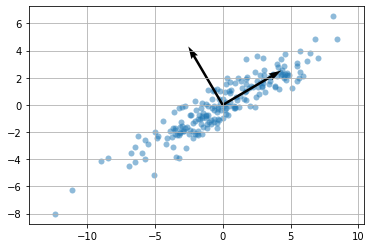
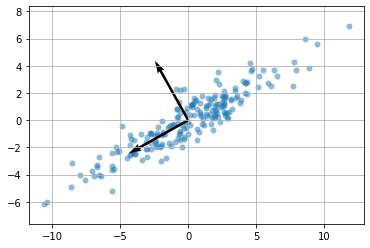
deploy: b959c3b55b3fdac264d93c81d40d8293f892a26b

diff --git a/searchindex.js b/searchindex.js
@@ -1,1 +1,1 @@
-Search.setIndex({docnames:["index","notebooks/01_linear_systems","notebooks/02_LU_decomposition","notebooks/03_polynomial_interpolation","notebooks/04_spline_interpolation","notebooks/05_finite_difference_method","notebooks/06_least_squares_regression","notebooks/07_pca","notebooks/08_deblurring_images","notebooks/09_computed_tomography","notebooks/10_computing_eigenvalues","notebooks/11_pagerank","notebooks/12_fft","notebooks/13_convolution","notebooks/Untitled"],envversion:{"sphinx.domains.c":2,"sphinx.domains.changeset":1,"sphinx.domains.citation":1,"sphinx.domains.cpp":3,"sphinx.domains.index":1,"sphinx.domains.javascript":2,"sphinx.domains.math":2,"sphinx.domains.python":2,"sphinx.domains.rst":2,"sphinx.domains.std":1,"sphinx.ext.intersphinx":1,sphinx:56},filenames:["index.md","notebooks/01_linear_systems.ipynb","notebooks/02_LU_decomposition.ipynb","notebooks/03_polynomial_interpolation.ipynb","notebooks/04_spline_interpolation.ipynb","notebooks/05_finite_difference_method.ipynb","notebooks/06_least_squares_regression.ipynb","notebooks/07_pca.ipynb","notebooks/08_deblurring_images.ipynb","notebooks/09_computed_tomography.ipynb","notebooks/10_computing_eigenvalues.ipynb","notebooks/11_pagerank.ipynb","notebooks/12_fft.ipynb","notebooks/13_convolution.ipynb","notebooks/Untitled.ipynb"],objects:{},objnames:{},objtypes:{},terms:{"00000000e":10,"005":[3,4],"009639976931589758":11,"00963998":11,"01510577":11,"015105773595215082":11,"021093870488510347":11,"02109389":11,"027161480867040816":11,"02716157":11,"02832897517319454":11,"028329":11,"03407311":11,"034073123693461105":11,"0375":11,"037500000000000006":11,"04175958":11,"04176006213062845":11,"04276068030895045":11,"04276092":11,"046622761926266715":11,"046623":11,"04902816697432799":11,"04902836":11,"04937601327987762":11,"04937611":11,"049584758315932884":11,"04958485":11,"050094454086719045":11,"05009455":11,"05625797":11,"05625841300580484":11,"0594269178008677":11,"05942715":11,"06394814009332865":11,"06394822":11,"06891397874486167":11,"06891408":11,"07106781e":10,"0854899":11,"08549028261804711":11,"09319300741494159":11,"09319324":11,"100":[3,5,10,11,12],"1000":6,"1056":7,"10813874":11,"10813916255043361":11,"10mm":[1,2,5],"1100":12,"115575244":3,"11764706e":10,"120":9,"13793103e":10,"14213562e":10,"14653772":6,"150":10,"16666667":1,"1797":7,"200":[3,4,7,8,9],"220446049250313e":1,"23313981e":10,"24650102e":10,"24712881730381647":11,"24720132":11,"24782":8,"256":8,"2q_k":5,"31018415324246":10,"3108259755514":10,"32083333":11,"331042562946":8,"33333333":[1,2,11],"33333333e":10,"36886114e":10,"373":10,"38496544":6,"38617379e":10,"39797215e":10,"40000000e":10,"41176471e":10,"41379310e":10,"41421356":10,"41421356e":10,"432x288":8,"43829925e":10,"44100":12,"45293347e":10,"4625":11,"46809736":11,"46824236539236713":11,"49999998":10,"500":[6,12],"50000002":10,"50691522":7,"52409613e":10,"530258040767459":4,"57233936":6,"64217655":3,"6530513":6,"66666667":[1,10],"6724":9,"68965517":10,"70710675":10,"70710678":10,"70710681":10,"72413793":10,"750":12,"76358907e":10,"77302319e":10,"7762752":9,"78720":9,"86199592":7,"88235294e":10,"8875":11,"90926744e":10,"9647097":6,"97144477":6,"9840":9,"98439951":6,"default":12,"function":[1,2,4,6,7,8,10,11],"import":[1,2,3,4,5,6,7,8,9,10,11,12],"return":2,"true":[2,3,4,5,7,11,12],"try":3,And:9,Axes:8,But:3,For:5,That:[2,3,7],The:[1,2,3,4,5,6,7,9,10],Then:10,There:[6,7],These:9,Use:[6,8],With:2,a_0:10,a_2:5,a_c:8,a_k:[5,9,10],a_k_plu:9,a_n:5,a_r:8,about:1,abs:[10,12],absolut:[2,10],ac_k_plu:8,actual:9,added:4,adjac:11,adjacency_matrix:11,after:9,again:6,algebra:1,algorithm:[7,10],align:[2,3],all:[4,10],almost:6,alpha:[5,6,7,11],also:10,alwai:2,amp:1,analyz:0,angl:[7,9,12],ani:2,append:3,approx:5,approxim:[0,1,5,10],ar_k_plu:8,arang:[8,12],arbitrari:6,around:3,arrai:[1,2,3,4,5,6,7,10,11],assum:0,astyp:8,averag:7,avoid:[8,9],axi:[5,7,11],b_1:5,b_2:5,b_e:9,b_k:5,b_n:5,base:6,basi:7,bc_type:4,becaus:3,been:7,befor:6,begin:[1,2,3,5,6],best:6,beta:5,binari:[7,8],block:[8,10],bmatrix:[1,2,3,5,6],boldsymbol:[1,3],bone:9,both:8,boundari:5,browser:12,build:6,c_0:[3,6],c_1:[3,5,6],c_1t:6,c_1t_1:3,c_1t_2:3,c_1t_d:3,c_1x:6,c_2:[3,5,6],c_2t:6,c_2x:6,c_d:[3,6],c_dt:6,c_k:[3,5],calcul:6,call:[2,3,6],can:[0,6,9,10],captur:7,cccccccc:[1,2],cd_d:6,cdot:[1,2,3,5,6],chang:[3,4],check:[2,8],choic:6,choleski:2,choos:[5,10],circuilt:1,clim:7,cmap:[2,7,8,9,11],coefficeint:6,coeffici:[3,4,6],collect:9,colorbar:[2,7,8],column:[2,6,7,8],column_stack:[6,7],combin:8,common:6,compar:[2,4,5,9,10,11],comput:[0,1,2,4,6,7,8],comut:2,concaten:5,cond:[3,4,8],condit:[3,5,8],consid:[3,4,5],consist:1,constant:1,construct:[0,4,6],contain:9,continu:4,converg:10,copi:12,correct:6,correspond:[3,9,10],cos:[5,7,12],creat:[0,1,3,8,11],cs1:4,cs2:4,cs3:4,csc:9,csc_matrix:9,cubic:3,cubicsplin:4,current:1,data:[3,4,8,9],dataset:9,dc_k_plu:8,ddot:[1,2,3,5],decomposit:[0,7,10],decreas:8,defin:[4,5,10],definit:[2,11],degre:[3,6],demonstr:6,denot:5,deploi:0,detail:0,dft:12,diag:[1,2,5,8,9],diagon:[8,10],differ:[6,9],differenti:5,digit:0,digraph:11,direct:[8,11],discret:[0,5],displai:12,distribut:6,document:2,doe:12,domain:5,domin:10,dot:[1,3,4,6,7],dr_k_plu:8,draw:11,due:1,each:[3,4,5,7,9,10],econom:6,edg:11,effici:7,eig:10,eigenvalu:0,eigenvector:10,eignvalu:10,element:12,elimin:2,ell_:2,end:[1,2,3,5,6],entri:2,epsilon:6,equal:[2,3,7],equat:[0,3,5],error:[1,6,9],eval:10,evec:10,everi:7,exact:[1,5],exactli:6,exampl:9,exist:3,express:6,eye:[1,2],factor:6,fals:[2,7],figsiz:[3,7,9,12],figur:[3,7,8,9,12],file:9,find:[2,8,11],finnish:9,fip:9,first:[2,6,7],flatten:7,float64:8,follow:9,form:[2,5,6],format:10,formula:5,found:0,fourier:0,frac:[5,7,10],from:[3,4,6,7,8,9,12],gaussian:[2,7],gener:[5,6],get_cmap:7,give:3,given:[3,4],goal:6,good:10,googl:11,google_matrix:11,grai:8,grid:[3,4,5,7,12],hand:2,handwritten:7,happen:3,has:[2,6,7,10],hat:[1,9],have:[6,9,10],horizont:8,how:8,howev:[7,9],hspace:[1,2,5],hstack:8,http:0,huge:9,i_1:1,i_n:1,idea:6,ifft:12,imag:7,implement:[7,10],imread:8,imshow:[2,7,8,9],includ:7,increas:[3,10],inde:10,index:[1,9],inform:[0,7],infti:10,interpol:7,interv:6,introduc:[3,5],invers:9,invert:[9,10],ipython:12,iter:[0,11],jet:7,jpg:8,jupyt:0,just:6,kitten:8,know:[3,10],knowledg:0,l_1:2,l_2:2,lambda:10,lambda_1:10,lambda_n:10,larg:[0,3,9],largest:9,learn:[1,7],least:[0,6],left:[1,2,5,6,8],len:3,length:7,leq:2,less:2,let:[2,3,4,5,6,7,8,9,10],linalg:[2,3,4,5,6,7,8,9,10,11,12],line:6,linear:[4,5],linearli:8,linewidth:6,linspac:[3,4,5,6],llet:5,load_digit:7,loadmat:[8,9],locat:7,look:[6,9],loop:1,lower:2,lu_factor:10,lu_solv:10,machin:7,magnitud:12,markers:[3,4],mat:9,mathbb:7,mathbf:[2,5,6,7,9,10],mathemat:[0,1],matplotlib:[1,2,3,4,5,6,7,8,9,10,11,12],matric:[0,6,9],matrix:[0,1,2,3,4,6,7,8,10,11],max:10,mean:[6,7,10],memori:9,method:[0,6,10,11],minim:6,mode:6,model:[0,1],most:[6,7],multipl:[8,10],n_link:11,n_page:11,nak:10,nbyte:9,ndarrai:[1,9],need:[8,9],networkx:11,nice:3,niter:10,nmax:3,node_color:11,nois:[3,4,6,9],none:5,norm:[1,10],normal:[7,10],normliz:7,notat:[5,6],note:11,notebook:[0,13],now:[2,4,6,10],number:[3,6,8,10],numpi:[1,2,3,4,5,6,7,8,9,10,11,12],nxk:10,ones:[1,2,5,6,8,11],onto:7,order:[5,9],ordinari:5,origin:7,orthogon:7,orthonorm:7,other:10,our:[1,4,11],p_1:[4,5],p_2:4,p_k:[4,5],p_n:[4,5],packag:[1,7],parabola:3,parallel:1,partial:2,particular:9,paus:10,pca:7,perform:[0,11],permut:2,phantom:2,phase:12,phenomenon:0,phi:12,piecewis:4,pivot:2,pixel:7,plot:[1,2,3,4,5,6,7],plt:[1,2,3,4,5,6,7,8,9,10,11,12],plu:2,point:[3,4,6,7],polyniomi:3,polynomi:4,pos:11,posit:[1,2],power:11,prepar:9,pretti:10,print:[1,2,3,6,10],prior:0,problem:9,process:0,produc:10,proj:9,project:7,properti:0,provid:9,pseudoinvers:[8,9],pwall:0,pyplot:[1,2,3,4,5,6,7,8,9,10,11,12],python:7,q_1:6,q_1r_1:6,q_k:10,qtc:8,qtr:8,quantifi:6,quiver:7,quotient:10,r_1:[5,6],r_2:5,r_k:[5,10],r_n:5,rai:9,rand:6,randint:[4,9,11],randn:[3,4,6,7,8,10],random:[3,4,6,7,8,9,12],rang:[3,7,9,10,11],rank:9,rate:12,rayleigh:10,rcparam:12,real:[0,10,12],rearrang:5,record:8,repeat:[5,10],repres:[1,6,8,9],reshap:[4,7,9],residu:1,result:[2,4,6,7,9,10],retriev:6,right:[1,2,5,6,7,8],round:1,row:[2,6,7,8,9],rrcrr:5,rrr:2,same:[6,8,10],sampl:[6,9],save:9,scale:7,scale_unit:7,scatter:[6,7],scipi:[0,2,3,4,5,6,7,8,9,10,11,12],second:5,see:[6,10],seek:7,select:7,sensit:[3,4],set:[6,12],set_cmap:8,shape:[6,7,8,9],show:[1,2,3,4,5,6,7,8,9,12],sigma:7,signal:0,similar:10,sin:[3,4,7],sinc:10,singular:[7,9],size:[1,3,4,5,8,10,12],sklearn:7,sla:9,sleep:10,small:[3,4],smallest:10,smooth:4,societi:9,softwar:0,solut:[0,1,2,3,5,6],solv:[2,3,4,5,6,8,9],solve_triangular:2,some:[1,3,6,8],space:3,spars:9,spring_layout:11,spy:9,sqrt:10,squar:[0,1,6,8,9],sse:6,standard:6,start:[3,10],stem:12,step:10,stochast:11,subinterv:4,subplot:[9,12],substitut:5,subtract:7,sum:[3,6,11,12],sum_:7,sum_i:6,summar:0,support:12,suppos:[6,10],svd:[0,7],symmetr:[2,10],system:[0,2,3,4,5,6],t_0:[3,4,5,6],t_1:[3,6],t_2:3,t_d:3,t_f:5,t_i:6,t_k:[3,4,5],t_n:[3,4,6],target:7,than:2,thei:10,therefor:[2,8,10],theta:7,thi:[2,3,6,10],thin:6,through:9,tick:7,tild:10,time:[6,7,8,10],titl:[3,12],toarrai:11,tomograph:9,tomographi:0,transform:0,transpos:11,triangular:[2,6,10],two:[6,7],type:[1,9],ubc:0,uniqu:[3,6],unit:2,unknown:3,upper:[2,6,10],use:[0,4,6,7,9],use_line_collect:12,used:11,using:[0,1,2,3,6,8],usual:10,valu:[2,3,4,7,8,9,10],vander:3,vandermond:[3,6],varianc:7,vdot:[1,2,3,5,6],vector:[6,7,9,10,11],veri:3,verifi:[2,4],vert:6,vertic:[8,11],visual:9,wai:6,walnut:9,want:[4,6],weight:7,what:[3,6],when:3,where:[1,2,5,6,8,9],which:[3,6,7,10],winter:[2,11],with_label:11,without:[2,10],work:6,world:0,www:0,x2d:7,x_filter:12,xlabel:[1,3],y_0:[3,4,6],y_1:[3,5,6],y_2:[3,5],y_angl:12,y_d:3,y_filter:12,y_i:6,y_k:[3,4,5],y_n:[4,5,6],yield:[3,5],yike:3,ylabel:1,your:12,zero:[5,8,11]},titles:["MATH 307 Applied Linear Algebra","Linear Systems of Equations","LU Decomposition","Polynomial Interpolation","Natural Cubic Spline Interpolation","Finite Difference Method","Fitting Models to Data","Principal Component Analysis","Deblurring Images","Computed Tomography","Computing Eigenvalues","PageRank","Discrete Fourier Transform","Test page","&lt;no title&gt;"],titleterms:{"307":0,"true":9,algebra:0,analysi:7,appli:0,audio:12,blur:8,compon:7,comput:[9,10,12],cubic:4,data:[6,7],dataset:7,deblur:8,decomposit:[2,6],differ:5,digit:7,discret:12,eigenvalu:10,equat:[1,6],exampl:[1,2,3,4,5,6,11,12],fake:[6,7],fft:12,filter:12,finit:5,fit:6,fourier:12,goal:0,graph:11,imag:8,interpol:[3,4],invers:10,invert:8,iter:10,learn:0,linalg:1,linear:[0,1,6],math:0,mathbf:1,matric:[8,10],matrix:9,measur:9,method:5,model:6,natur:4,network:1,nois:8,noisi:6,normal:6,page:13,pagerank:11,plai:12,polynomi:[3,6],power:10,princip:7,project:9,python:0,quadrat:6,random:[10,11],regress:6,resistor:1,scipi:1,signal:12,sinogram:9,sinusoid:12,small:11,solut:9,solv:1,spline:4,svd:[8,9],system:1,test:13,toeplitz:8,tomographi:9,transform:12,truncat:[8,9]}})
+Search.setIndex({docnames:["index","notebooks/01_linear_systems","notebooks/02_LU_decomposition","notebooks/03_polynomial_interpolation","notebooks/04_spline_interpolation","notebooks/05_finite_difference_method","notebooks/06_least_squares_regression","notebooks/07_pca","notebooks/08_deblurring_images","notebooks/09_computed_tomography","notebooks/10_computing_eigenvalues","notebooks/11_pagerank","notebooks/12_fft","notebooks/13_convolution","notebooks/Untitled"],envversion:{"sphinx.domains.c":2,"sphinx.domains.changeset":1,"sphinx.domains.citation":1,"sphinx.domains.cpp":3,"sphinx.domains.index":1,"sphinx.domains.javascript":2,"sphinx.domains.math":2,"sphinx.domains.python":2,"sphinx.domains.rst":2,"sphinx.domains.std":1,"sphinx.ext.intersphinx":1,sphinx:56},filenames:["index.md","notebooks/01_linear_systems.ipynb","notebooks/02_LU_decomposition.ipynb","notebooks/03_polynomial_interpolation.ipynb","notebooks/04_spline_interpolation.ipynb","notebooks/05_finite_difference_method.ipynb","notebooks/06_least_squares_regression.ipynb","notebooks/07_pca.ipynb","notebooks/08_deblurring_images.ipynb","notebooks/09_computed_tomography.ipynb","notebooks/10_computing_eigenvalues.ipynb","notebooks/11_pagerank.ipynb","notebooks/12_fft.ipynb","notebooks/13_convolution.ipynb","notebooks/Untitled.ipynb"],objects:{},objnames:{},objtypes:{},terms:{"00000000e":10,"005":[3,4],"02445453":11,"024454625695827847":11,"02760923":11,"027609427474915422":11,"028053428345815895":11,"02805349":11,"02926831":11,"029268529178955855":11,"03242301":11,"03242333095804342":11,"03646098":11,"036461247579786076":11,"0375":11,"037500000000000006":11,"04028929":11,"04028937161976738":11,"04194264624858597":11,"04194297":11,"04408321":11,"04408327454559537":11,"048821544191642384":11,"04882199":11,"04994098":11,"04994205121437609":11,"05106031":11,"051060401547703575":11,"05319080714450191":11,"05319127":11,"05369825":11,"053699167958322774":11,"05517473893822967":11,"05517553":11,"06558432144109179":11,"06558448":11,"06758902615510785":11,"06758914":11,"07106781e":10,"07107045":11,"07107157914361517":11,"07209860431638739":11,"07209889":11,"100":[3,5,10,11,12],"1000":6,"1056":7,"10718187630172826":11,"10718367":11,"10mm":[1,2,5],"1100":12,"115575244":3,"11764706e":10,"120":9,"13793103e":10,"14213562e":10,"14248236":6,"150":10,"16666667":1,"1797":7,"200":[3,4,7,8,9],"220446049250313e":1,"23313981e":10,"24650102e":10,"24712881730381647":11,"24720132":11,"24782":8,"256":8,"2q_k":5,"32083333":11,"331042560716":8,"33333333":[1,2,11],"33333333e":10,"36886114e":10,"384":10,"38617379e":10,"39797215e":10,"40000000e":10,"41176471e":10,"41379310e":10,"41421356":10,"41421356e":10,"432x288":8,"43829925e":10,"44100":12,"45293347e":10,"4625":11,"46809736":11,"46824236539236713":11,"48880451":7,"49999998":10,"500":[6,12],"50000002":10,"51609755":6,"52409613e":10,"530258040767446":4,"6289977":3,"66666667":[1,10],"66791266":6,"6724":9,"68965517":10,"70329279432053":10,"7032927943321":10,"70710675":10,"70710678":10,"70710681":10,"72413793":10,"750":12,"76358907e":10,"77302319e":10,"7762752":9,"78720":9,"87239335":7,"88235294e":10,"88372756":6,"8875":11,"90926744e":10,"95796046":6,"98178017":6,"9840":9,"99454515":6,"default":12,"function":[1,2,4,6,7,8,10,11],"import":[1,2,3,4,5,6,7,8,9,10,11,12],"return":2,"true":[2,3,4,5,7,11,12],"try":3,And:9,Axes:8,But:3,For:5,That:[2,3,7],The:[1,2,3,4,5,6,7,9,10],Then:10,There:[6,7],These:9,Use:[6,8],With:2,a_0:10,a_2:5,a_c:8,a_k:[5,9,10],a_k_plu:9,a_n:5,a_r:8,about:1,abs:[10,12],absolut:[2,10],ac_k_plu:8,actual:9,added:4,adjac:11,adjacency_matrix:11,after:9,again:6,algebra:1,algorithm:[7,10],align:[2,3],all:[4,10],almost:6,alpha:[5,6,7,11],also:10,alwai:2,amp:1,analyz:0,angl:[7,9,12],ani:2,append:3,approx:5,approxim:[0,1,5,10],ar_k_plu:8,arang:[8,12],arbitrari:6,around:3,arrai:[1,2,3,4,5,6,7,10,11],assum:0,astyp:8,averag:7,avoid:[8,9],axi:[5,7,11],b_1:5,b_2:5,b_e:9,b_k:5,b_n:5,base:6,basi:7,bc_type:4,becaus:3,been:7,befor:6,begin:[1,2,3,5,6],best:6,beta:5,binari:[7,8],block:[8,10],bmatrix:[1,2,3,5,6],boldsymbol:[1,3],bone:9,both:8,boundari:5,browser:12,build:[1,6],c_0:[3,6],c_1:[3,5,6],c_1t:6,c_1t_1:3,c_1t_2:3,c_1t_d:3,c_1x:6,c_2:[3,5,6],c_2t:6,c_2x:6,c_d:[3,6],c_dt:6,c_k:[3,5],cach:1,calcul:6,call:[2,3,6],can:[0,6,9,10],captur:7,cccccccc:[1,2],cd_d:6,cdot:[1,2,3,5,6],chang:[3,4],check:[2,8],choic:6,choleski:2,choos:[5,10],circuilt:1,clim:7,cmap:[2,7,8,9,11],coefficeint:6,coeffici:[3,4,6],collect:9,colorbar:[2,7,8],column:[2,6,7,8],column_stack:[6,7],combin:8,common:6,compar:[2,4,5,9,10,11],comput:[0,1,2,4,6,7,8],comut:2,concaten:5,cond:[3,4,8],condit:[3,5,8],consid:[3,4,5],consist:1,constant:1,construct:[0,4,6],contain:9,continu:4,converg:10,copi:12,correct:6,correspond:[3,9,10],cos:[5,7,12],creat:[0,1,3,8,11],cs1:4,cs2:4,cs3:4,csc:9,csc_matrix:9,cubic:3,cubicsplin:4,current:1,data:[3,4,8,9],dataset:9,dc_k_plu:8,ddot:[1,2,3,5],decomposit:[0,7,10],decreas:8,defin:[4,5,10],definit:[2,11],degre:[3,6],demonstr:6,denot:5,deploi:0,detail:0,dft:12,diag:[1,2,5,8,9],diagon:[8,10],differ:[6,9],differenti:5,digit:0,digraph:11,direct:[8,11],discret:[0,5],displai:12,distribut:6,document:2,doe:12,domain:5,domin:10,dot:[1,3,4,6,7],dr_k_plu:8,draw:11,due:1,each:[3,4,5,7,9,10],econom:6,edg:11,effici:7,eig:10,eigenvalu:0,eigenvector:10,eignvalu:10,element:12,elimin:2,ell_:2,end:[1,2,3,5,6],entri:2,epsilon:6,equal:[2,3,7],equat:[0,3,5],error:[1,6,9],eval:10,evec:10,everi:7,exact:[1,5],exactli:6,exampl:9,exist:3,express:6,eye:[1,2],factor:6,fals:[2,7],figsiz:[3,7,9,12],figur:[3,7,8,9,12],file:9,find:[2,8,11],finnish:9,fip:9,first:[2,6,7],flatten:7,float64:8,follow:9,font:1,form:[2,5,6],format:10,formula:5,found:0,fourier:0,frac:[5,7,10],from:[3,4,6,7,8,9,12],gaussian:[2,7],gener:[5,6],get_cmap:7,give:3,given:[3,4],goal:6,good:10,googl:11,google_matrix:11,grai:8,grid:[3,4,5,7,12],hand:2,handwritten:7,happen:3,has:[2,6,7,10],hat:[1,9],have:[6,9,10],horizont:8,how:8,howev:[7,9],hspace:[1,2,5],hstack:8,huge:9,i_1:1,i_n:1,idea:6,ifft:12,imag:7,implement:[7,10],imread:8,imshow:[2,7,8,9],includ:7,increas:[3,10],inde:10,index:[1,9],inform:[0,7],infti:10,interpol:7,interv:6,introduc:[3,5],invers:9,invert:[9,10],ipython:12,iter:[0,11],jet:7,jpg:8,jupyt:0,just:6,kitten:8,know:[3,10],knowledg:0,l_1:2,l_2:2,lambda:10,lambda_1:10,lambda_n:10,larg:[0,3,9],largest:9,learn:[1,7],least:[0,6],left:[1,2,5,6,8],len:3,length:7,leq:2,less:2,let:[2,3,4,5,6,7,8,9,10],linalg:[2,3,4,5,6,7,8,9,10,11,12],line:6,linear:[4,5],linearli:8,linewidth:6,linspac:[3,4,5,6],llet:5,load_digit:7,loadmat:[8,9],locat:7,look:[6,9],loop:1,lower:2,lu_factor:10,lu_solv:10,machin:7,magnitud:12,mai:1,markers:[3,4],mat:9,mathbb:7,mathbf:[2,5,6,7,9,10],mathemat:[0,1],matplotlib:[1,2,3,4,5,6,7,8,9,10,11,12],matric:[0,6,9],matrix:[0,1,2,3,4,6,7,8,10,11],max:10,mean:[6,7,10],memori:9,method:[0,6,10,11],minim:6,mode:6,model:[0,1],moment:1,most:[6,7],multipl:[8,10],n_link:11,n_page:11,nak:10,nbyte:9,ndarrai:[1,9],need:[8,9],networkx:11,nice:3,niter:10,nmax:3,node_color:11,nois:[3,4,6,9],none:5,norm:[1,10],normal:[7,10],normliz:7,notat:[5,6],note:11,notebook:[0,13],now:[2,4,6,10],number:[3,6,8,10],numpi:[1,2,3,4,5,6,7,8,9,10,11,12],nxk:10,ones:[1,2,5,6,8,11],onto:7,order:[5,9],ordinari:5,origin:7,orthogon:7,orthonorm:7,other:10,our:[1,4,11],p_1:[4,5],p_2:4,p_k:[4,5],p_n:[4,5],packag:[1,7],parabola:3,parallel:1,partial:2,particular:9,paus:10,pca:7,perform:[0,11],permut:2,phantom:2,phase:12,phenomenon:0,phi:12,piecewis:4,pivot:2,pixel:7,plot:[1,2,3,4,5,6,7],plt:[1,2,3,4,5,6,7,8,9,10,11,12],plu:2,point:[3,4,6,7],polyniomi:3,polynomi:4,pos:11,posit:[1,2],power:11,prepar:9,pretti:10,print:[1,2,3,6,10],prior:0,problem:9,process:0,produc:10,proj:9,project:7,properti:0,provid:9,pseudoinvers:[8,9],pyplot:[1,2,3,4,5,6,7,8,9,10,11,12],python:7,q_1:6,q_1r_1:6,q_k:10,qtc:8,qtr:8,quantifi:6,quiver:7,quotient:10,r_1:[5,6],r_2:5,r_k:[5,10],r_n:5,rai:9,rand:6,randint:[4,9,11],randn:[3,4,6,7,8,10],random:[3,4,6,7,8,9,12],rang:[3,7,9,10,11],rank:9,rate:12,rayleigh:10,rcparam:12,real:[0,10,12],rearrang:5,record:8,repeat:[5,10],repres:[1,6,8,9],reshap:[4,7,9],residu:1,result:[2,4,6,7,9,10],retriev:6,right:[1,2,5,6,7,8],round:1,row:[2,6,7,8,9],rrcrr:5,rrr:2,same:[6,8,10],sampl:[6,9],save:9,scale:7,scale_unit:7,scatter:[6,7],scipi:[0,2,3,4,5,6,7,8,9,10,11,12],second:5,see:[6,10],seek:7,select:7,sensit:[3,4],set:[6,12],set_cmap:8,shape:[6,7,8,9],show:[1,2,3,4,5,6,7,8,9,12],sigma:7,signal:0,similar:10,sin:[3,4,7],sinc:10,singular:[7,9],size:[1,3,4,5,8,10,12],sklearn:7,sla:9,sleep:10,small:[3,4],smallest:10,smooth:4,societi:9,softwar:0,solut:[0,1,2,3,5,6],solv:[2,3,4,5,6,8,9],solve_triangular:2,some:[1,3,6,8],space:3,spars:9,spring_layout:11,spy:9,sqrt:10,squar:[0,1,6,8,9],sse:6,standard:6,start:[3,10],stem:12,step:10,stochast:11,subinterv:4,subplot:[9,12],substitut:5,subtract:7,sum:[3,6,11,12],sum_:7,sum_i:6,summar:0,support:12,suppos:[6,10],svd:[0,7],symmetr:[2,10],system:[0,2,3,4,5,6],t_0:[3,4,5,6],t_1:[3,6],t_2:3,t_d:3,t_f:5,t_i:6,t_k:[3,4,5],t_n:[3,4,6],take:1,target:7,than:2,thei:10,therefor:[2,8,10],theta:7,thi:[1,2,3,6,10],thin:6,through:9,tick:7,tild:10,time:[6,7,8,10],titl:[3,12],toarrai:11,tomograph:9,tomographi:0,transform:0,transpos:11,triangular:[2,6,10],two:[6,7],type:[1,9],uniqu:[3,6],unit:2,unknown:3,upper:[2,6,10],use:[0,4,6,7,9],use_line_collect:12,used:11,using:[0,1,2,3,6,8],usual:10,valu:[2,3,4,7,8,9,10],vander:3,vandermond:[3,6],varianc:7,vdot:[1,2,3,5,6],vector:[6,7,9,10,11],veri:3,verifi:[2,4],vert:6,vertic:[8,11],visual:9,wai:6,walnut:9,want:[4,6],weight:7,what:[3,6],when:3,where:[1,2,5,6,8,9],which:[3,6,7,10],winter:[2,11],with_label:11,without:[2,10],work:6,world:0,x2d:7,x_filter:12,xlabel:[1,3],y_0:[3,4,6],y_1:[3,5,6],y_2:[3,5],y_angl:12,y_d:3,y_filter:12,y_i:6,y_k:[3,4,5],y_n:[4,5,6],yield:[3,5],yike:3,ylabel:1,your:12,zero:[5,8,11]},titles:["MATH 307 Applied Linear Algebra","Linear Systems of Equations","LU Decomposition","Polynomial Interpolation","Natural Cubic Spline Interpolation","Finite Difference Method","Fitting Models to Data","Principal Component Analysis","Deblurring Images","Computed Tomography","Computing Eigenvalues","PageRank","Discrete Fourier Transform","Test page","&lt;no title&gt;"],titleterms:{"307":0,"true":9,algebra:0,analysi:7,appli:0,audio:12,blur:8,compon:7,comput:[9,10,12],cubic:4,data:[6,7],dataset:7,deblur:8,decomposit:[2,6],differ:5,digit:7,discret:12,eigenvalu:10,equat:[1,6],exampl:[1,2,3,4,5,6,11,12],fake:[6,7],fft:12,filter:12,finit:5,fit:6,fourier:12,goal:0,graph:11,imag:8,interpol:[3,4],invers:10,invert:8,iter:10,learn:0,linalg:1,linear:[0,1,6],math:0,mathbf:1,matric:[8,10],matrix:9,measur:9,method:5,model:6,natur:4,network:1,nois:8,noisi:6,normal:6,page:13,pagerank:11,plai:12,polynomi:[3,6],power:10,princip:7,project:9,python:0,quadrat:6,random:[10,11],regress:6,resistor:1,scipi:1,signal:12,sinogram:9,sinusoid:12,small:11,solut:9,solv:1,spline:4,svd:[8,9],system:1,test:13,toeplitz:8,tomographi:9,transform:12,truncat:[8,9]}})

diff --git a/notebooks/11_pagerank.html b/notebooks/11_pagerank.html
@@ -505,10 +505,10 @@
 </div>
 </div>
 <div class="cell_output docutils container">
-<div class="output text_plain highlight-myst-ansi notranslate"><div class="highlight"><pre><span></span>array([0.04958485, 0.05009455, 0.09319324, 0.10813874, 0.04902836,
-       0.03407311, 0.0854899 , 0.04937611, 0.06394822, 0.028329  ,
-       0.01510577, 0.05942715, 0.02109389, 0.02716157, 0.05625797,
-       0.04175958, 0.046623  , 0.04276092, 0.06891408, 0.00963998])
+<div class="output text_plain highlight-myst-ansi notranslate"><div class="highlight"><pre><span></span>array([0.10718367, 0.04994098, 0.05369825, 0.06758914, 0.05319127,
+       0.07107045, 0.05517553, 0.04882199, 0.02760923, 0.02926831,
+       0.04408321, 0.04194297, 0.05106031, 0.02805349, 0.03242301,
+       0.06558448, 0.07209889, 0.04028929, 0.03646098, 0.02445453])
 </pre></div>
 </div>
 </div>
@@ -520,26 +520,26 @@
 </div>
 </div>
 <div class="cell_output docutils container">
-<div class="output text_plain highlight-myst-ansi notranslate"><div class="highlight"><pre><span></span>{15: 0.049584758315932884,
- 13: 0.050094454086719045,
- 18: 0.09319300741494159,
- 16: 0.10813916255043361,
- 5: 0.04902816697432799,
- 14: 0.034073123693461105,
- 12: 0.08549028261804711,
- 7: 0.04937601327987762,
- 17: 0.06394814009332865,
- 4: 0.02832897517319454,
- 10: 0.015105773595215082,
- 8: 0.0594269178008677,
- 3: 0.021093870488510347,
- 9: 0.027161480867040816,
- 19: 0.05625841300580484,
- 2: 0.04176006213062845,
- 1: 0.046622761926266715,
- 0: 0.04276068030895045,
- 11: 0.06891397874486167,
- 6: 0.009639976931589758}
+<div class="output text_plain highlight-myst-ansi notranslate"><div class="highlight"><pre><span></span>{8: 0.10718187630172826,
+ 3: 0.04994205121437609,
+ 2: 0.053699167958322774,
+ 5: 0.06758902615510785,
+ 11: 0.05319080714450191,
+ 17: 0.07107157914361517,
+ 6: 0.05517473893822967,
+ 9: 0.048821544191642384,
+ 16: 0.027609427474915422,
+ 0: 0.029268529178955855,
+ 15: 0.04408327454559537,
+ 12: 0.04194264624858597,
+ 19: 0.051060401547703575,
+ 13: 0.028053428345815895,
+ 1: 0.03242333095804342,
+ 14: 0.06558432144109179,
+ 4: 0.07209860431638739,
+ 18: 0.04028937161976738,
+ 10: 0.036461247579786076,
+ 7: 0.024454625695827847}
 </pre></div>
 </div>
 </div>

diff --git a/notebooks/06_least_squares_regression.html b/notebooks/06_least_squares_regression.html
@@ -450,11 +450,11 @@ y = c_0 + c_1 t + \epsilon
 </div>
 </div>
 <div class="cell_output docutils container">
-<div class="output text_plain highlight-myst-ansi notranslate"><div class="highlight"><pre><span></span>array([[1.        , 0.6530513 ],
-       [1.        , 0.14653772],
-       [1.        , 0.97144477],
-       [1.        , 0.38496544],
-       [1.        , 0.57233936]])
+<div class="output text_plain highlight-myst-ansi notranslate"><div class="highlight"><pre><span></span>array([[1.        , 0.66791266],
+       [1.        , 0.98178017],
+       [1.        , 0.51609755],
+       [1.        , 0.14248236],
+       [1.        , 0.88372756]])
 </pre></div>
 </div>
 </div>
@@ -468,7 +468,7 @@ y = c_0 + c_1 t + \epsilon
 </div>
 </div>
 <div class="cell_output docutils container">
-<div class="output stream highlight-myst-ansi notranslate"><div class="highlight"><pre><span></span>[ 6.98439951 -3.9647097 ]
+<div class="output stream highlight-myst-ansi notranslate"><div class="highlight"><pre><span></span>[ 6.99454515 -3.95796046]
 </pre></div>
 </div>
 </div>

diff --git a/index.html b/index.html
@@ -286,7 +286,7 @@
 <h1>MATH 307 Applied Linear Algebra<a class="headerlink" href="#math-307-applied-linear-algebra" title="Permalink to this headline">¶</a></h1>
 <div class="section" id="python">
 <h2>Python<a class="headerlink" href="#python" title="Permalink to this headline">¶</a></h2>
-<p>We will use Python, deployed in Jupyter notebooks, to do computations. No prior knowledge of Python is assumed. Detailed information on Python can be found at [Mathematical Python: https://www.math.ubc.ca/~pwalls/math-python/]</p>
+<p>We will use Python, deployed in Jupyter notebooks, to do computations. No prior knowledge of Python is assumed. Detailed information on Python can be found at <a class="reference external" href="https://www.math.ubc.ca/~pwalls/math-python/">Mathematical Python</a></p>
 </div>
 <div class="section" id="learning-goals">
 <h2>Learning Goals<a class="headerlink" href="#learning-goals" title="Permalink to this headline">¶</a></h2>

diff --git a/notebooks/10_computing_eigenvalues.html b/notebooks/10_computing_eigenvalues.html
@@ -540,8 +540,8 @@ A \tilde{\mathbf{x}}_{k+1} = \mathbf{x}_k \\
 </div>
 </div>
 <div class="cell_output docutils container">
-<div class="output stream highlight-myst-ansi notranslate"><div class="highlight"><pre><span></span>Power method:  373.31018415324246
-SciPy:  373.3108259755514
+<div class="output stream highlight-myst-ansi notranslate"><div class="highlight"><pre><span></span>Power method:  384.70329279432053
+SciPy:  384.7032927943321
 </pre></div>
 </div>
 </div>

diff --git a/notebooks/07_pca.html b/notebooks/07_pca.html
@@ -360,8 +360,8 @@
 </div>
 </div>
 <div class="cell_output docutils container">
-<div class="output text_plain highlight-myst-ansi notranslate"><div class="highlight"><pre><span></span>array([[ 0.86199592,  0.50691522],
-       [-0.50691522,  0.86199592]])
+<div class="output text_plain highlight-myst-ansi notranslate"><div class="highlight"><pre><span></span>array([[-0.87239335, -0.48880451],
+       [-0.48880451,  0.87239335]])
 </pre></div>
 </div>
 </div>

diff --git a/notebooks/01_linear_systems.html b/notebooks/01_linear_systems.html
@@ -323,6 +323,11 @@
 </pre></div>
 </div>
 </div>
+<div class="cell_output docutils container">
+<div class="output stderr highlight-myst-ansi notranslate"><div class="highlight"><pre><span></span>Matplotlib is building the font cache; this may take a moment.
+</pre></div>
+</div>
+</div>
 </div>
 <p>Solve linear systems of equations <span class="math notranslate nohighlight">\(A \mathbf{x} = \mathbf{b}\)</span>:</p>
 <ul class="simple">

diff --git a/notebooks/03_polynomial_interpolation.html b/notebooks/03_polynomial_interpolation.html
@@ -467,7 +467,7 @@ c_0 + c_1t_d + \cdots + c_d t_d^d &amp;= y_d
 </div>
 </div>
 <div class="cell_output docutils container">
-<div class="output text_plain highlight-myst-ansi notranslate"><div class="highlight"><pre><span></span>115575244.64217655
+<div class="output text_plain highlight-myst-ansi notranslate"><div class="highlight"><pre><span></span>115575244.6289977
 </pre></div>
 </div>
 </div>

diff --git a/notebooks/04_spline_interpolation.html b/notebooks/04_spline_interpolation.html
@@ -416,7 +416,7 @@
 </div>
 </div>
 <div class="cell_output docutils container">
-<div class="output text_plain highlight-myst-ansi notranslate"><div class="highlight"><pre><span></span>14.530258040767459
+<div class="output text_plain highlight-myst-ansi notranslate"><div class="highlight"><pre><span></span>14.530258040767446
 </pre></div>
 </div>
 </div>

diff --git a/notebooks/08_deblurring_images.html b/notebooks/08_deblurring_images.html
@@ -389,7 +389,7 @@
 </div>
 </div>
 <div class="cell_output docutils container">
-<div class="output text_plain highlight-myst-ansi notranslate"><div class="highlight"><pre><span></span>24782.331042562946
+<div class="output text_plain highlight-myst-ansi notranslate"><div class="highlight"><pre><span></span>24782.331042560716
 </pre></div>
 </div>
 </div>

diff --git a/_sources/index.md b/_sources/index.md
@@ -2,7 +2,7 @@
 
 ## Python 
 
-We will use Python, deployed in Jupyter notebooks, to do computations. No prior knowledge of Python is assumed. Detailed information on Python can be found at [Mathematical Python: https://www.math.ubc.ca/~pwalls/math-python/]
+We will use Python, deployed in Jupyter notebooks, to do computations. No prior knowledge of Python is assumed. Detailed information on Python can be found at [Mathematical Python](https://www.math.ubc.ca/~pwalls/math-python/)
 
 ## Learning Goals
 
